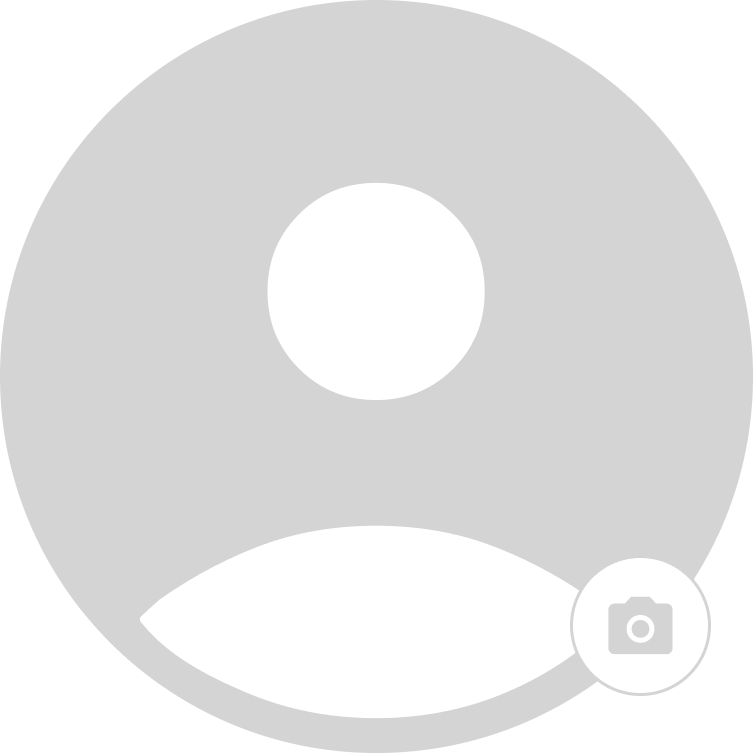
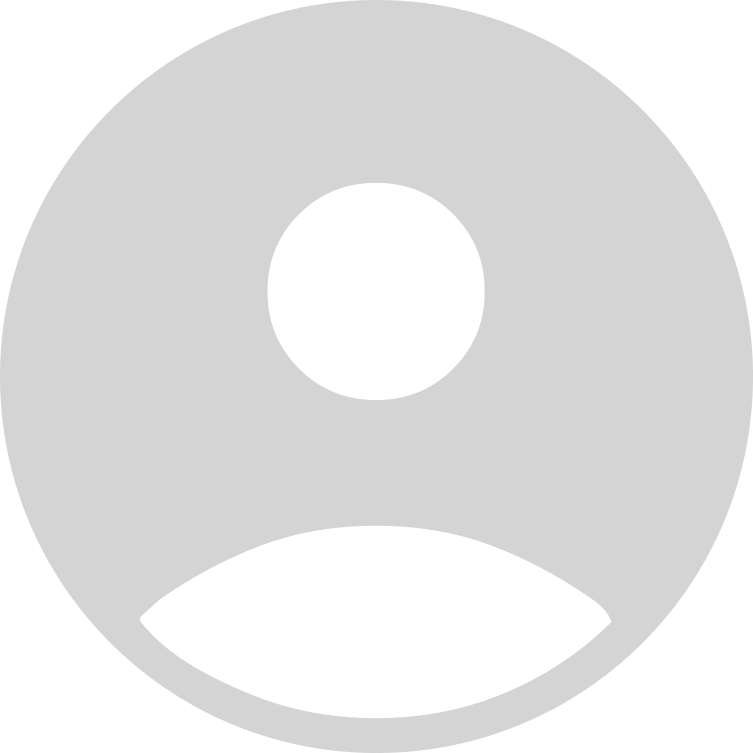
Diseño para editar imagen de perfil

diff --git a/src/components/loadImageProfile/LoadImageProfile.js b/src/components/loadImageProfile/LoadImageProfile.js
@@ -1,9 +1,11 @@
 import { useState } from 'react';
 import { IconX } from '../../assets/IconsSvg';
 import iconUser from '../../assets/iconUserBig.png';
+import iconCamera from '../../assets/iconCamera.png';
+import Button from '../button/Button';
 import './loadImageProfile.css';
 
-const LoadImageProfile = ({ image, setImage, setImgFile}) => {
+const LoadImageProfile = ({ image, imgUser, imgfile, setImage, setImgFile}) => {
     const [ inputValue, setInputValue ] = useState('');
     const handleImage = (e) => {
         const file = e.target.files[0];
@@ -24,25 +26,37 @@ const LoadImageProfile = ({ image, setImage, setImgFile}) => {
     return (
         <div className='load-image-profile'>
             <div className='box-img-user'>
-                {!image ?
+                <img className='img-user' src={!image ? iconUser : image} alt='Img user' />
+                {imgfile && 
+                    <button type='button' className='clear-input-img' title='Quitar' onClick={() => clearInput()}>
+                        <IconX size={13} />
+                    </button>
+                }
+                {imgUser &&
                     <>
-                        <input
-                            value={inputValue}
-                            className='select-img' 
-                            type='file' 
-                            accept='image/png, image/jpg'
-                            onChange={handleImage}    
-                        />
-                        <img className='icon-user' src={iconUser} alt='Icono user' />
-                    </>
-                    :
-                    <>
-                        <img className='img-user' src={image} alt='Img user' />
-                        <button type='button' className='clear-input-img' title='Quitar' onClick={() => clearInput()}>
-                            <IconX size={13} />
-                        </button>
+                        {(imgUser.image && !imgfile) &&
+                            <div className='box-button-remove'>
+                                <Button
+                                    type='button'
+                                    value='Eliminar'
+                                    btnColor='normal'
+                                />
+                            </div>
+                        }
                     </>
                 }
+                <div className='box-btn-load-image'>
+                    <label htmlFor="image_uploads" title='Cargar imagen'>
+                        <img src={iconCamera} alt='icon camera'/>
+                    </label>
+                    <input
+                        value={inputValue}
+                        id='image_uploads'
+                        type='file' 
+                        accept='image/png, image/jpg'
+                        onChange={handleImage}    
+                    />
+                </div>
             </div>
         </div>
     );

diff --git a/src/pages/editProfile/EditProfile.js b/src/pages/editProfile/EditProfile.js
@@ -31,10 +31,10 @@ const EditProfile = () => {
   const compareData = useCallback(() => {
     if(userRef.current.email !== email.value) return true;
     if(userRef.current.fullname !== fullname.value) return true;
-    if(userRef.current.image !== image) return true;
     if(password.value !== '') return true;
+    if(imgfile) return true;
     return false;
-  },[email.value,fullname.value,image, password.value]);
+  },[email.value,fullname.value,imgfile, password.value]);
   //Función para verificar si los campos editados son validos
   const valid = useCallback(() => {
     if(email.valid && fullname.valid && password.valid) return true;
@@ -44,7 +44,7 @@ const EditProfile = () => {
     if(compareData() && valid()) return setBtnEdit(false);
     setBtnEdit(true);
   },[compareData, valid]);
-  const save = async e => {
+  const update = async e => {
     e.preventDefault();
     if(btnEdith) return;
     const formData = new FormData();
@@ -70,9 +70,11 @@ const EditProfile = () => {
   return (
     <Section>
       <Navbar title='Editar perfil' />
-      <form onSubmit={save}>
+      <form onSubmit={update}>
         <LoadImageProfile
           image={image}
+          imgUser={userRef.current}
+          imgfile={imgfile}
           setImage={setImage}
           setImgFile={setImgFile}
         />

diff --git a/src/components/loadImageProfile/loadImageProfile.css b/src/components/loadImageProfile/loadImageProfile.css
@@ -11,18 +11,44 @@
     width: 100%;
     height: 20rem;
 }
-.load-image-profile .box-img-user input {
+.load-image-profile .box-btn-load-image {
     position: absolute;
+    right: 6.5rem;
+    bottom: calc(50% - 2.5rem);
     border-radius: 50%;
+    width: 5rem;
+    height: 5rem;
+}
+.load-image-profile .box-img-user .box-btn-load-image label {
+    display: block;
+    width: 100%;
+    height: 100%;
+    background-color: var(--white);
+    border-radius: 50%;
+    cursor: pointer;
+    box-shadow: 0 0 0.5rem var(--box-shadown);
+}
+.load-image-profile .box-img-user .box-btn-load-image label img {
+    width: 5rem;
+    height: 5rem;
+    object-fit: contain;
+}
+.load-image-profile .box-img-user .box-btn-load-image input {
     opacity: 0;
 }
-.load-image-profile .box-img-user .select-img,
+.load-image-profile .box-button-remove {
+    position: absolute;
+    bottom: -0.5rem;
+    width: 9rem;
+    height: 3rem;
+    box-shadow: 0 0 0.5rem var(--box-shadown);
+    border-radius: 1rem;
+}
 .load-image-profile .box-img-user .icon-user,
 .load-image-profile .box-img-user .img-user {
     width: 20rem;
     height: 20rem;
     object-fit: contain;
-    cursor: pointer;
 }
 .load-image-profile .box-img-user .img-user {
     border-radius: 50%;

diff --git a/src/components/button/Button.js b/src/components/button/Button.js
@@ -6,6 +6,7 @@ const colors = {
   confirm:'color-confirm',
   success:'color-success',
   cancel:'color-cancel',
+  normal:'color-normal'
 }
 const Button = ({ type, value, btnColor, colorSpinner, action, isLoading=false, disable=false }) => {
   const btnAction = () => {

diff --git a/src/components/button/button.css b/src/components/button/button.css
@@ -42,3 +42,10 @@
     background-color: rgb(236, 236, 236);
     cursor: default;
 }
+.color-normal {
+    color: var(--black);
+    background: var(--white);
+}
+.color-normal:active {
+    background-color: rgb(236, 236, 236);
+}

diff --git a/src/index.css b/src/index.css
@@ -1,6 +1,7 @@
 :root {
   --white: #ffffff;
   --black: #000000;
+  --box-shadown: #00000057;
   --black-transparent: #c2c2c2;
   --gray: #838383;
   --light-gray: #F2F2F2;
